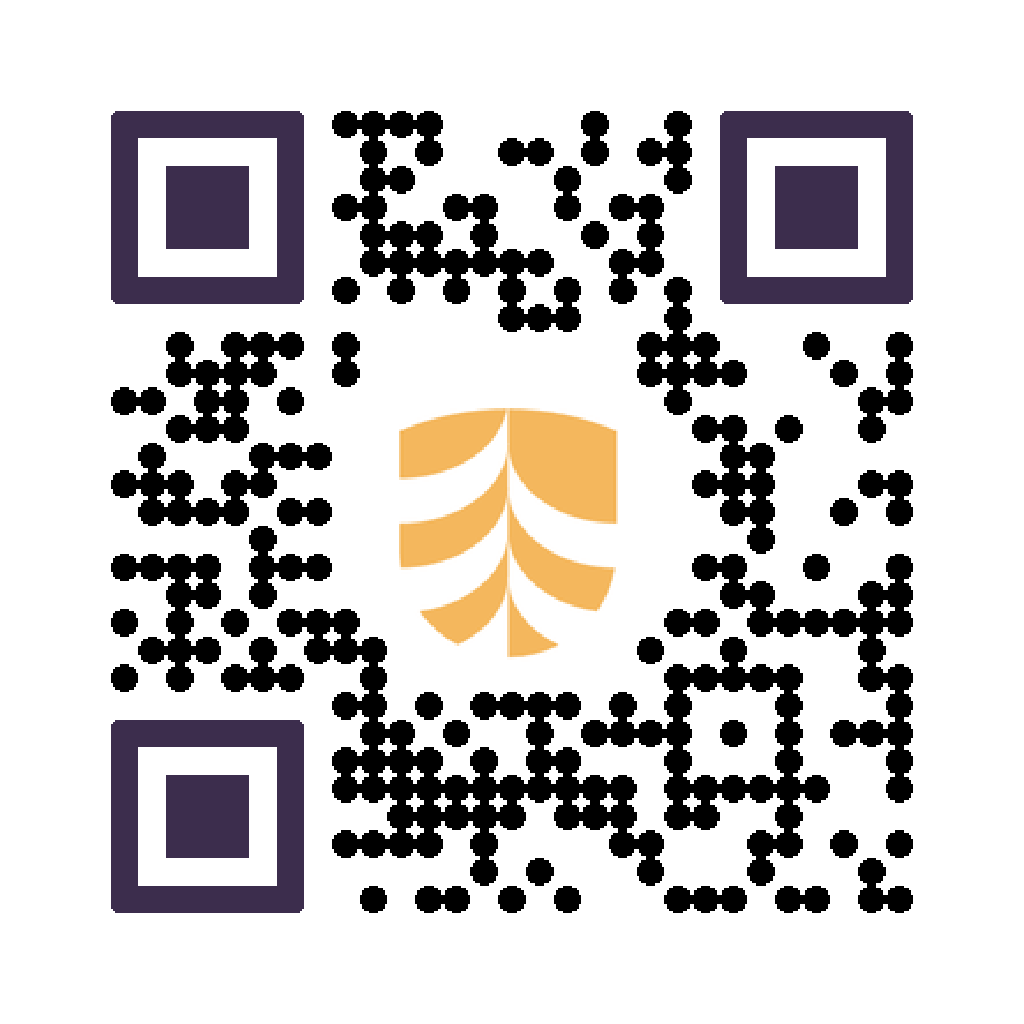
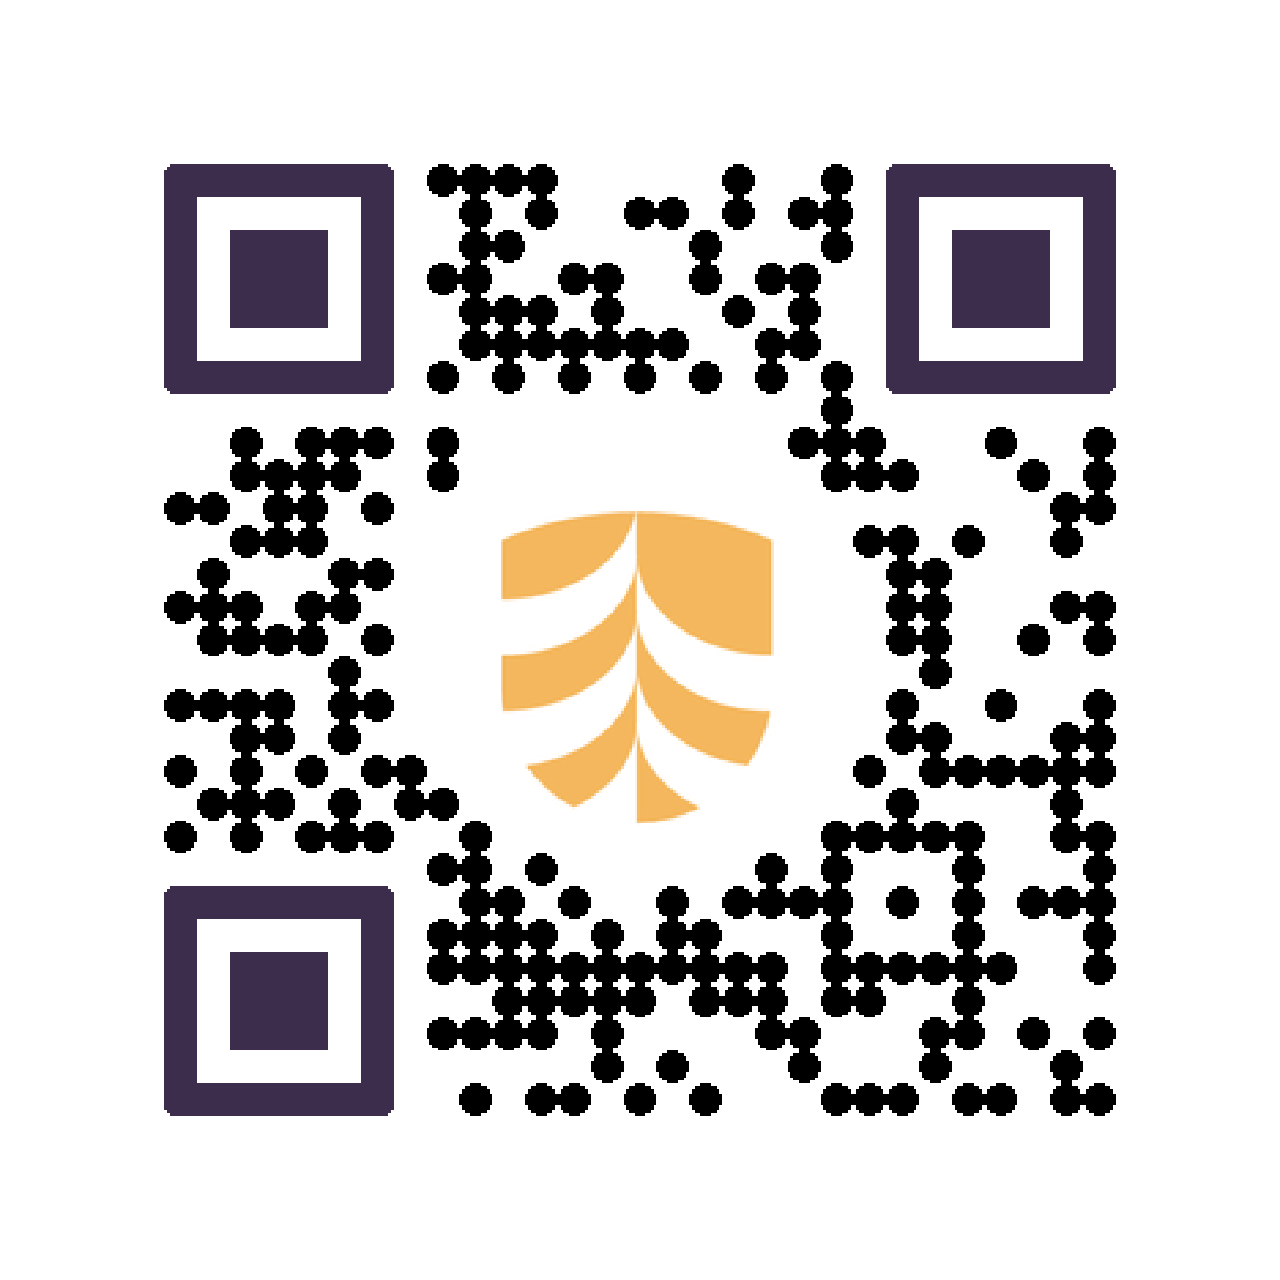
Reduce pad to 0.24, quiet zone to 5 modules, min image 1280px; regenerate MQ/UQ and other examples

Changed region(s): [[0.0938, 0.0938, 0.9062, 0.9062], [0.375, 0.4062, 0.5, 0.625], [0.4062, 0.5938, 0.4375, 0.625]]

diff --git a/src/branded_qr.py b/src/branded_qr.py
@@ -59,12 +59,12 @@ def make_branded_qr(
     logo_path: Optional[str] = None,
     *,
     target_frac: float = 0.234,
-    pad_frac: float = 0.26,
+    pad_frac: float = 0.24,
     smooth_sigma: float = 0.0,
     ring_thickness: int = 0,
     ring_color: Tuple[int, int, int, int] = (200, 200, 200, 255),
     qr_scale: int = 12,
-    border_modules: int = 4,
+    border_modules: int = 5,
     error: str = "h",
     data_dark: str = "black",
     finder_from_logo: bool = True,
@@ -82,7 +82,7 @@ def make_branded_qr(
     max_decode_attempts: int = 8,
     pad_step: float = 0.01,
     target_step: float = 0.005,
-    min_img_size: Optional[int] = 1024,
+    min_img_size: Optional[int] = 1280,
 ) -> Image.Image:
     """Generate a branded QR code with a circular inset and logo.
 
@@ -396,12 +396,12 @@ def main() -> None:
     parser.add_argument("--university", type=str, choices=["mq", "unisq", "sydney", "uq"], help="Preset branding: mq | unisq | sydney | uq")
     parser.add_argument("-o", "--output", dest="save_path", default="branded_qr.png", help="Output image path")
     parser.add_argument("--target-frac", type=float, default=0.234)
-    parser.add_argument("--pad-frac", type=float, default=0.26)
+    parser.add_argument("--pad-frac", type=float, default=0.24)
     parser.add_argument("--smooth-sigma", type=float, default=0.0)
     parser.add_argument("--ring-thickness", type=int, default=0)
     parser.add_argument("--ring-color", type=str, default="#c8c8c8")
     parser.add_argument("--qr-scale", type=int, default=12)
-    parser.add_argument("--border-modules", type=int, default=4)
+    parser.add_argument("--border-modules", type=int, default=5)
     parser.add_argument("--error", type=str, default="h", choices=["l", "m", "q", "h"]) 
     parser.add_argument("--data-dark", type=str, default="black")
     parser.add_argument("--finder-from-logo", action="store_true", default=True)
@@ -417,7 +417,7 @@ def main() -> None:
     parser.add_argument("--max-decode-attempts", type=int, default=8)
     parser.add_argument("--pad-step", type=float, default=0.01)
     parser.add_argument("--target-step", type=float, default=0.005)
-    parser.add_argument("--min-img-size", type=int, default=1024)
+    parser.add_argument("--min-img-size", type=int, default=1280)
 
     args = parser.parse_args()
 
